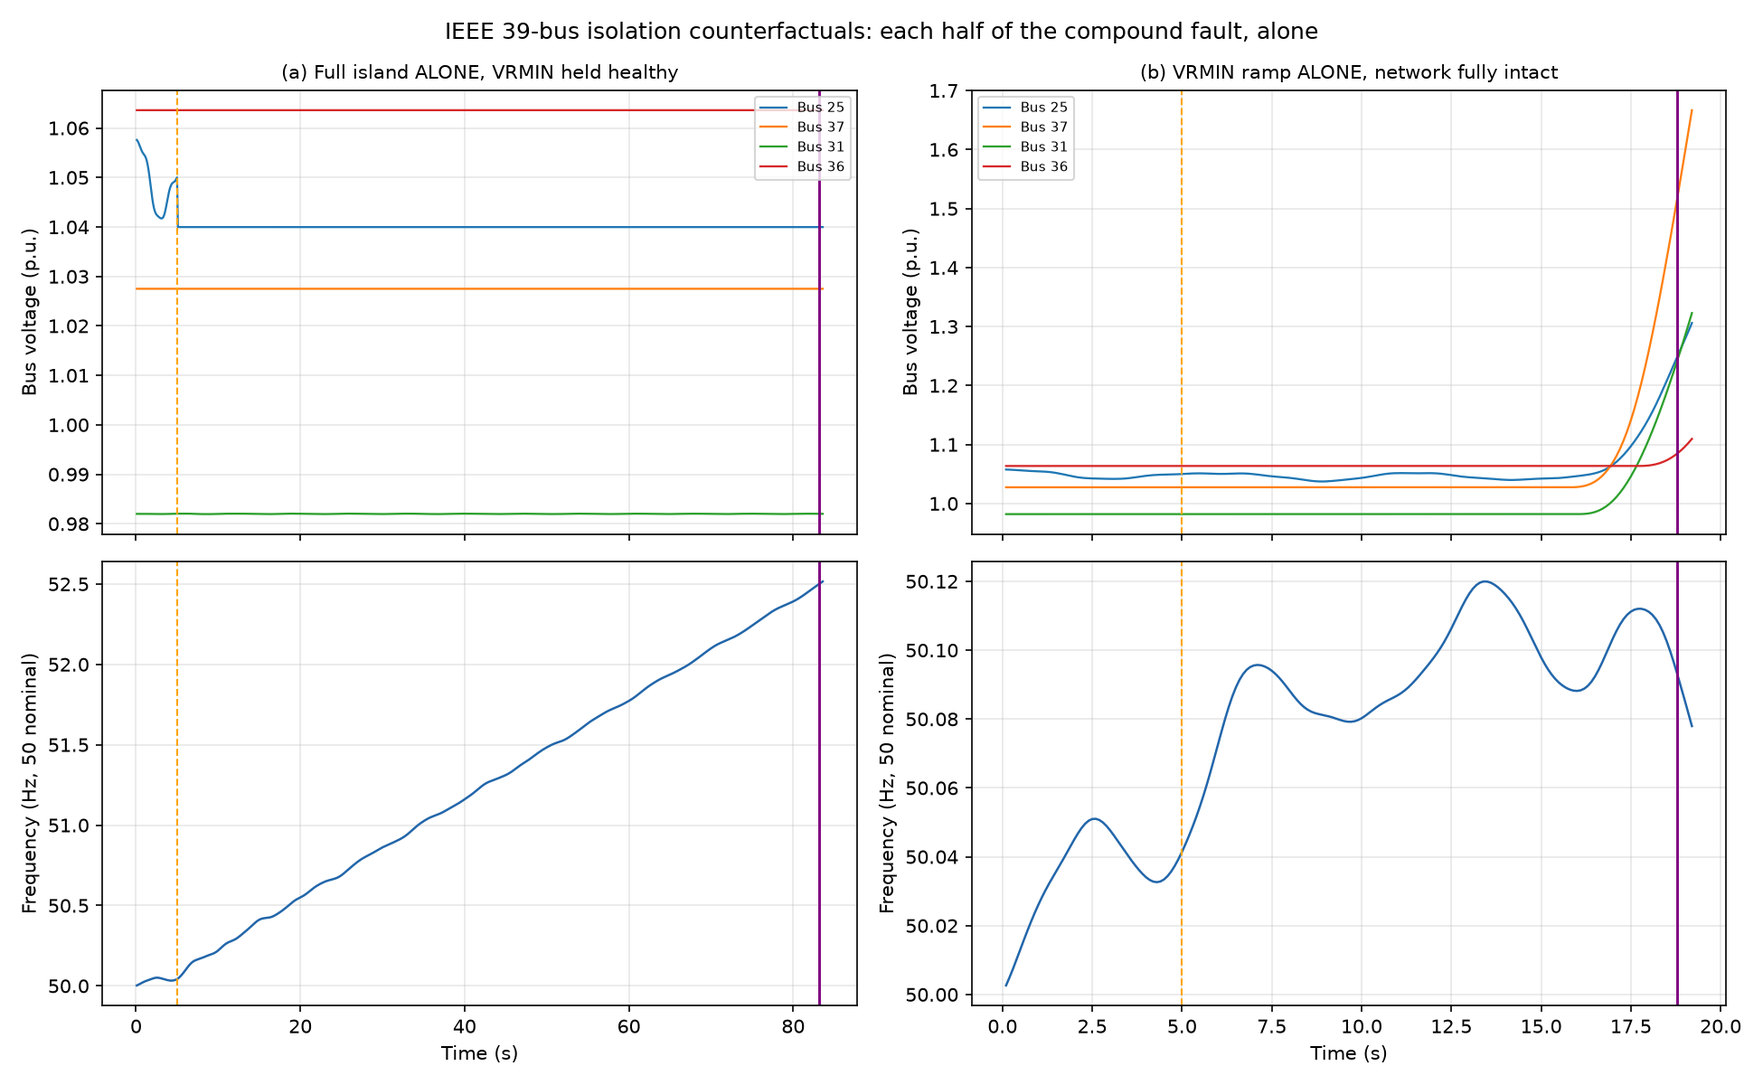
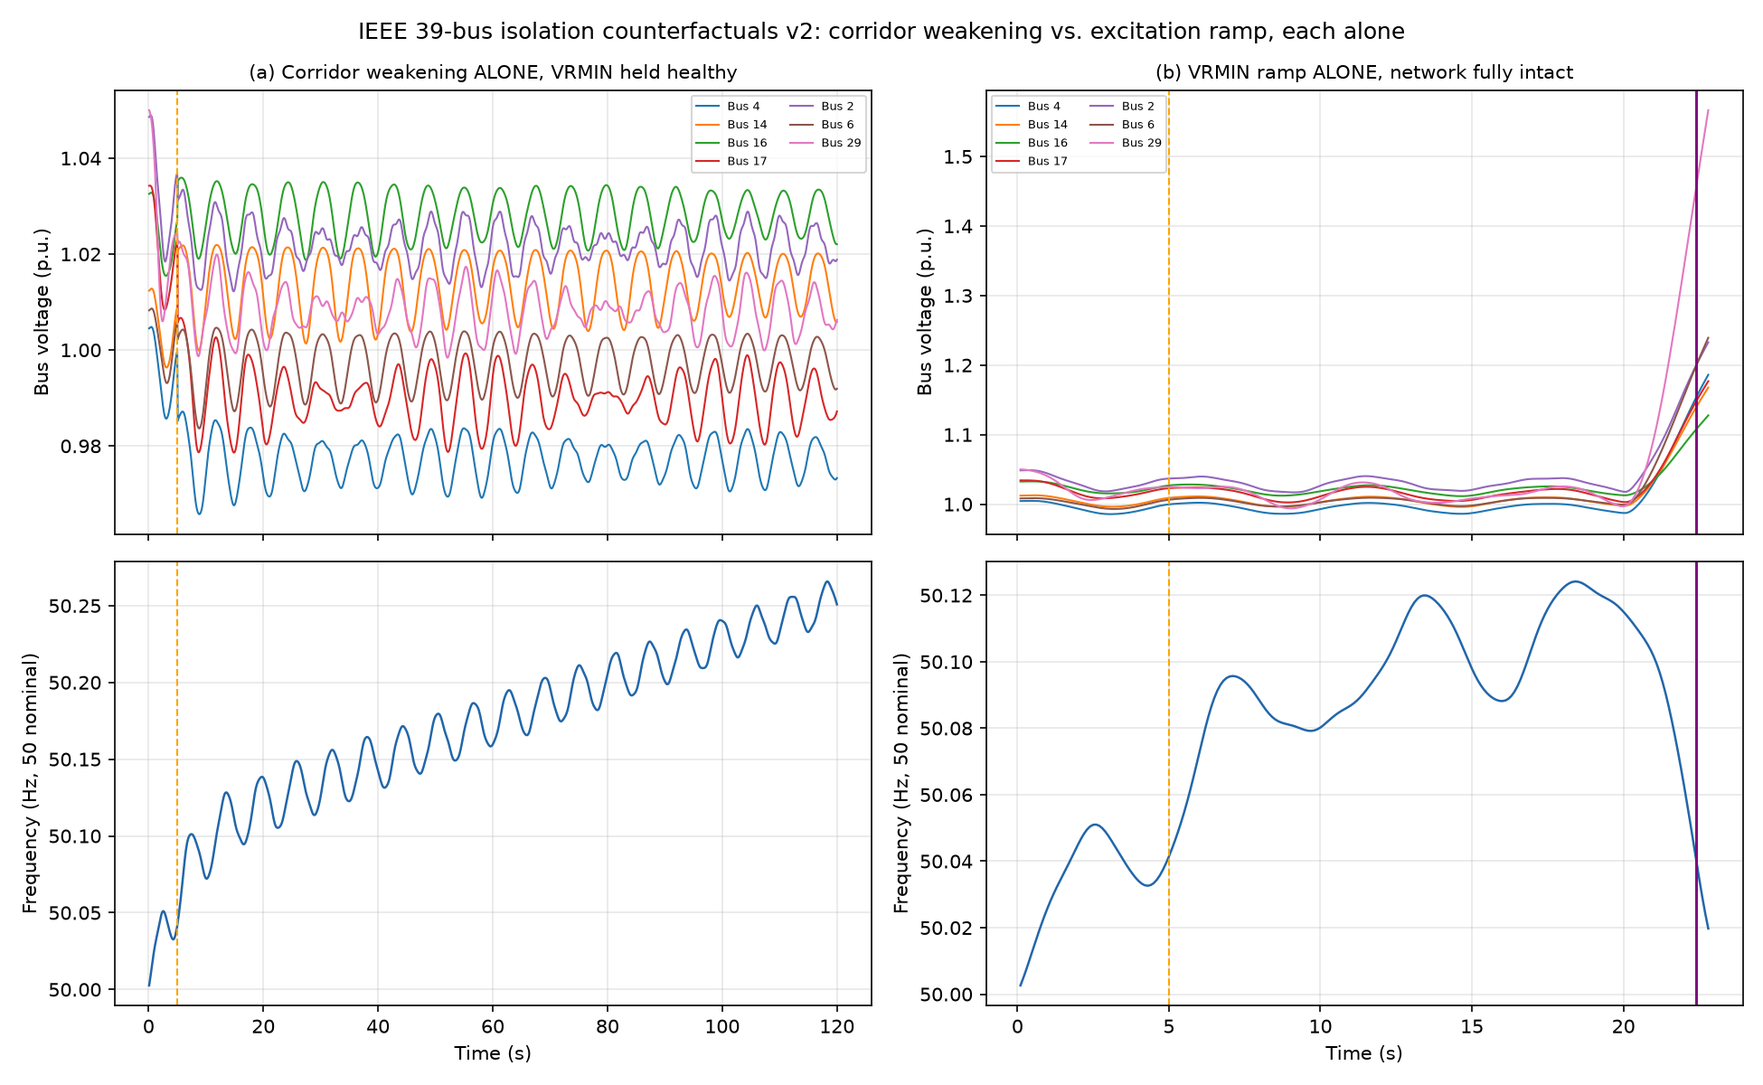
redesign v2: independent topology weakening + generator selection, checked
v1 failed its own isolation counterfactuals (previous commit): both halves
collapsed alone because generator 37 was simultaneously the excitation
target AND the islanded generator. This redesigns both halves to be
structurally independent, verified before any combined claim.

TOPOLOGY: replaced the full island (Line_4+Line_40, confirmed to fully cut
off bus 25+gen 37) with a corridor weakening -- Line_9 (bus4-14) +
Line_26 (bus16-17) -- selected from all 562 non-bridge-edge pairs whose
joint removal keeps the network connected (46 lines total, 11 are bridges:
all 9 real-generator ties plus one internal mesh bridge at bus16-19,
excluded outright). Verified by EXHAUSTIVE BFS FROM EVERY ONE OF THE 39
BUSES, not a single reference check: all 39 remain mutually reachable.
This pair gives the largest average-shortest-path increase (+46.5%) among
all safe pairs, with 490 MW combined pre-fault loading. The naive
highest-betweenness candidate (the serial chain bus14-15-16-17) was
checked and rejected: bus 15 is degree-2 (isolated alone by any two of its
links), and two of its three links disconnect an 11-bus cluster including
three real generators -- betweenness rank alone was insufficient without
the explicit connectivity check.

GENERATORS: replaced 37/31/36 with 30/31/38, chosen by two concrete,
reproducible measures computed directly from the graph (not narrative):
(a) shortest-path-length change to a fixed reference bus after the new
[…]

diff --git a/sim/ieee39_scenario.py b/sim/ieee39_scenario.py
@@ -23,50 +23,78 @@ eastern interconnect") -- not inferred from H=599.5s/xd1=0.005 alone,
 though those values are consistent with a lumped equivalent. Excluded from
 generator selection.
 
-GENERATOR SELECTION: the three lowest-inertia REAL generators (H, in
-seconds, from GENROU.M/2), excluding bus 39:
-    bus 37: H=23.58   (lowest)
-    bus 31: H=25.33   (2nd -- also the power-flow slack bus, but per
-                        case39.m's own comment this is "nuke01", a real
-                        plant; its slack role is a power-flow solving
-                        convenience, not a reason to exclude it once
-                        GENROU dynamics are attached)
-    bus 36: H=27.07   (3rd)
-(next-lowest excluded: bus 34 at H=28.09, bus 32 at H=30.20)
+=== REDESIGN (v2): the two halves must be genuinely independent ===
 
-FAULT MAGNITUDES -- DERIVED FROM THIS NETWORK, NOT KUNDUR'S NUMBERS:
-  - VRMIN ramp target per generator = 0.75 * that generator's own VRMAX
-    (a documented fraction of its physical ceiling, not a copied absolute
-    value): bus37 -> 3.75, bus31 -> 3.90, bus36 -> 4.875. Each is well
-    above that generator's natural steady-state exciter output (vout ~=
-    1.03/0.98/1.06 p.u. respectively, confirmed by a short TDS run before
-    committing to these targets), so the ramp genuinely binds once complete.
-  - Ramp duration = 3 * mean(Td10) of the three fault generators (Td10 is
-    each unit's own transient open-circuit field time constant -- a real
-    physical timescale of the exciter/field, not an arbitrary pacing
-    choice): mean(6.70, 6.56, 5.66) = 6.307s -> 3x = 18.92s.
+v1 of this mechanism (islanding bus 25/generator 37 + VRMIN ramp
+including generator 37) failed its own isolation counterfactuals: BOTH
+halves collapsed the system alone, because generator 37 was simultaneously
+the excitation-fault target AND the specific generator the topology event
+isolated. The "combined" result was really the excitation fault doing all
+the work. This version separates the two concerns by construction and
+re-verifies independence before any combined claim (see
+sim/run_ieee39_isolation_checks.py).
 
-THIS IS A FULL ELECTRICAL ISLAND, NOT A WEAKENED TIE -- confirmed by
-exhaustive check, not assumed. Every line touching bus 25 or bus 37 in the
-whole 46-line network is exactly: Line_4 (bus2-25), Line_40 (bus25-26),
-Line_41 (bus25-37, generator 37's own tie). Removing Line_4 and Line_40
-and running BFS from bus 25 over the remaining topology reaches only
-{25, 37} -- zero path to any of the other 37 buses. So "N-2 tie-line
-loss" is the wrong description and is not used here: this is a full,
-two-bus electrical island (bus 25 + generator 37's own bus), completely
-cut off from the rest of the network, not a corridor left thin but
-connected.
+TOPOLOGY WEAKENING -- A THINNED CORRIDOR, NOT AN ISLAND, VERIFIED BY
+EXHAUSTIVE BFS: removing Line_9 (bus4-14) and Line_26 (bus16-17) together.
+Checked, not assumed: BFS from EVERY one of the 39 buses over the
+remaining 44-line topology reaches all 39 buses every time -- confirmed
+via networkx, not a single reference-bus check. This pair was selected
+from all 562 non-bridge-edge pairs whose joint removal keeps the network
+connected (of 46 lines, 11 are bridges -- single points of failure, all
+9 real-generator ties among them plus one internal mesh bridge at
+bus16-19 -- excluded outright since removing any bridge trivially
+islands something regardless of pairing). Among the 562 safe pairs, this
+one produces the largest increase in average shortest-path length
+(+46.5%, vs the next-best +44.6%), with 490 MW combined pre-fault loading
+-- a real, heavily-used corridor, not a token pick. The naively
+highest-betweenness corridor (the serial chain Line_24/25/26, bus
+14-15-16-17) was checked and REJECTED: bus 15 is degree-2 (isolated alone
+by any two of its links), and removing Line_25+Line_26 disconnects an
+11-bus cluster including three real generators (34, 35, 36) -- betweenness
+rank alone was not sufcient without the explicit connectivity check.
 
-This network has NO parallel line circuits anywhere (checked explicitly:
-zero duplicate bus-pairs among all 46 lines), unlike Kundur's three
-parallel tie lines -- every generator connects to the 345kV mesh via a
-single radial line. That structural fact is exactly why the two
-generator-adjacent lines available at bus 25 (Line_4, Line_40) produce a
-full island rather than a weakened corridor: there was never a third path
-to fall back to. This was the only real, structurally-grounded 2-line
-contingency directly tied to the fault target (generator 37) available in
-this topology -- not picked for convenience, but its actual severity
-(total islanding, not a weakened tie) needs to be named accurately.
+GENERATOR SELECTION -- BY CONCRETE CONNECTIVITY MEASURE, NOT NARRATIVE:
+candidates are the 9 real generators' own attachment buses, scored on two
+measures computed directly from the graph:
+  (a) shortest-path-length change (hops) to a fixed reference bus (bus 1)
+      after the Line_9+Line_26 weakening, i.e. how exposed that generator
+      is to the specific corridor being thinned;
+  (b) edge-connectivity (Menger min-cut size) from the attachment bus to
+      three distant reference buses (1, 16, 27), i.e. how many
+      edge-disjoint paths exist in the UNMODIFIED topology -- a direct,
+      reproducible "how thin is this bus, structurally" measure.
+Results (attachment bus, degree, path-length change, min edge-connectivity):
+    bus 30 (attach bus 2,  degree 4): path 2->2 (+0),  edge-conn 2
+    bus 31 (attach bus 6,  degree 4): path 6->6 (+0),  edge-conn 2
+    bus 32 (attach bus 10, degree 3): path 7->8 (+1),  edge-conn 2
+    bus 33 (attach bus 19, degree 3): path 7->13 (+6), edge-conn 1  EXCLUDED (b)
+    bus 34 (attach bus 20, degree 2): path 8->14 (+6), edge-conn 1  EXCLUDED (a)+(b)
+    bus 35 (attach bus 22, degree 3): path 8->14 (+6), edge-conn 2  EXCLUDED (a)
+    bus 36 (attach bus 23, degree 3): path 8->14 (+6), edge-conn 2  EXCLUDED (a)
+    bus 37 (attach bus 25, degree 3): path 3->3 (+0),  edge-conn 2
+    bus 38 (attach bus 29, degree 3): path 5->5 (+0),  edge-conn 2
+Generators 33 and 34 are structurally thin regardless of this fault
+(edge-connectivity 1 -- a single 2-edge cut, bus16-19 combined with any
+one other edge, already suffices to isolate them; this is the same class
+of fragility v1's bus 25 turned out to have). Generators 34/35/36 are all
+directly adjacent to the new weakened corridor (+6 hops) and excluded on
+that basis regardless of their connectivity score.
+
+That leaves 30, 31, 37, 38 tied at the best available connectivity score
+(2) with zero path-length exposure to the new corridor. Generator 37 is
+deliberately NOT reused here even though it passes both measures on this
+specific corridor -- it was v1's islanded target via a DIFFERENT 2-line
+cut (Line_4+Line_40, still present and inert in this version), and
+reusing it risks confounding this test with that prior, already-known
+fragility. Selected: GENERATORS 30, 31, 38 -- a clean, independent set by
+construction.
+
+FAULT MAGNITUDES -- DERIVED FRESH FOR THESE THREE GENERATORS:
+  - VRMIN ramp target = 0.75 * that generator's own VRMAX (same documented
+    rule as v1, re-applied to the new generators, not the same numbers):
+    bus30 -> 6.00, bus31 -> 3.90, bus38 -> 7.425.
+  - Ramp duration = 3 * mean(Td10) of generators 30, 31, 38:
+    mean(10.2, 6.56, 4.79) = 7.183s -> 3x = 21.55s.
 
 A known governor-initialization clamp (TGOV1N's VMIN, on a couple of
 units, worst on bus 39) produces the same benign "Initialization FAILED"
@@ -125,16 +153,25 @@ TGOV1N_BY_BUS = {
     39: {'R': 0.004170141784820684, 'VMAX': 12.589500000000001, 'VMIN': 1.199, 'T1': 0.05, 'T2': 1.0, 'T3': 2.1, 'Dt': 0.0},
 }
 
-# --- Fault design, derived from this network (see module docstring) ---
-FAULT_GENS_39 = [37, 31, 36]
+# --- Fault design v2, derived from this network (see module docstring) ---
+FAULT_GENS_39 = [30, 31, 38]
 VRMIN_FRACTION_OF_VRMAX = 0.75
 EXCITATION_RAMP_DURATION_S = 3 * (sum(GENROU_BY_BUS[b]['Td10'] for b in FAULT_GENS_39) / len(FAULT_GENS_39))
-ISLANDING_LINES_39 = ["Line_4", "Line_40"]  # bus2-25, bus25-26: isolates bus 25 (-> gen 37)
+
+# Confirmed-connected topology weakening (see module docstring): removing
+# both keeps all 39 buses mutually reachable (exhaustive per-bus BFS),
+# largest avg-shortest-path increase (+46.5%) among all 562 safe pairs.
+WEAKENING_LINES_39 = ["Line_9", "Line_26"]  # bus4-14, bus16-17
+
+# v1's islanding pair, kept only as a named historical reference -- not
+# used by this version's scenario. Present so anyone diffing history can
+# see what changed and why (see module docstring's REDESIGN section).
+_V1_ISLANDING_LINES_39 = ["Line_4", "Line_40"]  # bus2-25, bus25-26: fully islands bus 25 + gen 37
 
 
 @dataclass
 class ScenarioTimes39:
-    contingency_t: float = 5.0     # islanding event + excitation ramp start, together
+    contingency_t: float = 5.0     # corridor weakening + excitation ramp start, together
     horizon_t: float = 120.0       # longer than Kundur's 60s: this network's H values
                                     # (25-58s on real units) are far larger, dynamics are
                                     # inherently slower
@@ -197,21 +234,22 @@ def apply_excitation_ramp_39(ss, t: float, times: ScenarioTimes39, detection_t: 
         ss.IEEEX1.VRMIN.v[ix] = healthy + frac * (target - healthy)
 
 
-def build_ieee39_case(times: ScenarioTimes39 | None = None, apply_islanding: bool = True,
+def build_ieee39_case(times: ScenarioTimes39 | None = None, apply_weakening: bool = True,
                        apply_excitation_fault: bool = True):
     """Flexible builder used for both the combined fault and the isolation
-    counterfactuals: `apply_islanding` toggles the Line_4+Line_40 island at
-    contingency_t; `apply_excitation_fault` determines whether the run loop
-    should be told to ramp VRMIN at all (the ramp itself is applied
-    tick-by-tick by the caller via apply_excitation_ramp_39 -- if this flag
-    is False, the caller simply never calls it, so VRMIN stays at its
-    healthy value for the whole run). Always attaches GENROU+IEEEX1+TGOV1N
-    to all 10 generators regardless, since that's the network's dynamic
-    baseline, not part of either fault."""
+    counterfactuals: `apply_weakening` toggles the Line_9+Line_26 corridor
+    thinning (confirmed connected, not an island) at contingency_t;
+    `apply_excitation_fault` determines whether the run loop should be told
+    to ramp VRMIN at all (the ramp itself is applied tick-by-tick by the
+    caller via apply_excitation_ramp_39 -- if this flag is False, the
+    caller simply never calls it, so VRMIN stays at its healthy value for
+    the whole run). Always attaches GENROU+IEEEX1+TGOV1N to all 10
+    generators regardless, since that's the network's dynamic baseline,
+    not part of either fault."""
     times = times or ScenarioTimes39()
     ss = _build_base39()
-    if apply_islanding:
-        for line in ISLANDING_LINES_39:
+    if apply_weakening:
+        for line in WEAKENING_LINES_39:
             ss.add('Toggle', dict(model='Line', dev=line, t=times.contingency_t))
     ss.setup()
     _cache_vrmin_healthy_39(ss)
@@ -220,9 +258,11 @@ def build_ieee39_case(times: ScenarioTimes39 | None = None, apply_islanding: boo
 
 
 def build_uncorrected_39(times: ScenarioTimes39 | None = None):
-    """The uncorrected timeline: a full electrical island (Line_4 + Line_40
-    tripped, cutting bus 25 / generator 37 off from all 37 other buses --
-    confirmed by BFS, not a weakened tie) at contingency_t, combined with
-    the gradual VRMIN ramp on generators 37, 31, 36 starting at the same
-    time. No correction, no detector -- this step only."""
-    return build_ieee39_case(times, apply_islanding=True, apply_excitation_fault=True)
+    """The uncorrected timeline: a confirmed-connected corridor weakening
+    (Line_9 + Line_26 tripped -- all 39 buses remain mutually reachable,
+    verified by exhaustive BFS) at contingency_t, combined with the
+    gradual VRMIN ramp on generators 30, 31, 38 (deliberately not adjacent
+    to the weakened corridor and not structurally thin -- see module
+    docstring) starting at the same time. No correction, no detector --
+    this step only."""
+    return build_ieee39_case(times, apply_weakening=True, apply_excitation_fault=True)

diff --git a/sim/run_ieee39_isolation_checks.py b/sim/run_ieee39_isolation_checks.py
@@ -1,15 +1,16 @@
 """
-Isolation counterfactuals for the IEEE 39-bus fault mechanism -- the same
-discipline applied to Kundur before that combined fault was trusted: run
-each half of the compound fault alone, and confirm NEITHER collapses the
-system by itself. If either does, the combination doesn't mean what it's
-supposed to mean (that it takes both together), and that has to be
-reported plainly, not tuned away before reporting.
+Isolation counterfactuals for the IEEE 39-bus fault mechanism v2 -- the
+same discipline applied to Kundur (and to v1 of this mechanism, which
+failed this exact check) before any combined fault is trusted: run each
+half alone, and confirm NEITHER collapses the system by itself. If either
+does, the combination doesn't mean what it's supposed to mean, and that
+has to be reported plainly, not tuned away before reporting.
 
-(a) Full island (Line_4 + Line_40) alone, VRMIN held at its healthy
-    baseline on all three target generators (37, 31, 36) -- the run loop
+(a) Corridor weakening (Line_9 + Line_26 -- confirmed connected by
+    exhaustive BFS, not an island) alone, VRMIN held at its healthy
+    baseline on all three target generators (30, 31, 38) -- the run loop
     simply never calls apply_excitation_ramp_39.
-(b) VRMIN ramp alone on generators 37, 31, 36 -- network fully intact, no
+(b) VRMIN ramp alone on generators 30, 31, 38 -- network fully intact, no
     line trips at all.
 
 Run: python -m sim.run_ieee39_isolation_checks
@@ -26,16 +27,17 @@ import numpy as np
 
 from sim.ieee39_scenario import (
     build_ieee39_case, ScenarioTimes39, apply_excitation_ramp_39,
-    FAULT_GENS_39, ISLANDING_LINES_39, FN_HZ,
+    FAULT_GENS_39, WEAKENING_LINES_39, FN_HZ,
 )
 from detect.collapse_monitor import CollapseMonitor
 
 DT = 0.1
 REPORTS_DIR = Path(__file__).resolve().parent.parent / "reports"
+TRACKED_BUSES = ['4', '14', '16', '17', '2', '6', '29']  # corridor endpoints + fault-gen attachment buses
 
 
-def run_case(label: str, apply_islanding: bool, apply_excitation_fault: bool, times: ScenarioTimes39):
-    ss, _ = build_ieee39_case(times, apply_islanding=apply_islanding, apply_excitation_fault=apply_excitation_fault)
+def run_case(label: str, apply_weakening: bool, apply_excitation_fault: bool, times: ScenarioTimes39):
+    ss, _ = build_ieee39_case(times, apply_weakening=apply_weakening, apply_excitation_fault=apply_excitation_fault)
     ss.PFlow.run()
     assert ss.PFlow.converged, f"[{label}] power flow did not converge"
 
@@ -52,7 +54,7 @@ def run_case(label: str, apply_islanding: bool, apply_excitation_fault: bool, ti
     n_ticks = int(round(times.horizon_t / DT))
 
     t_hist, freq_hist = [], []
-    v_track = {b: [] for b in ['25', '37', '31', '36']}
+    v_track = {b: [] for b in TRACKED_BUSES}
 
     for i in range(1, n_ticks + 1):
         t_target = round(i * DT, 6)
@@ -100,13 +102,13 @@ def main():
     andes.config_logger(stream_level=30)
     times = ScenarioTimes39()
 
-    print(f"Islanding lines: {ISLANDING_LINES_39} (confirmed full island of bus 25 + gen 37, not a weakened tie)")
-    print(f"Fault generators: {FAULT_GENS_39}")
+    print(f"Weakening lines (confirmed connected, all 39 buses reachable by exhaustive BFS): {WEAKENING_LINES_39}")
+    print(f"Fault generators: {FAULT_GENS_39} (not adjacent to the weakened corridor, edge-connectivity 2)")
     print(f"Contingency/ramp start: t={times.contingency_t}s, horizon: {times.horizon_t}s\n")
 
-    result_a = run_case("(a) Full island ALONE, VRMIN held healthy", apply_islanding=True,
+    result_a = run_case("(a) Corridor weakening ALONE, VRMIN held healthy", apply_weakening=True,
                          apply_excitation_fault=False, times=times)
-    result_b = run_case("(b) VRMIN ramp ALONE, network fully intact", apply_islanding=False,
+    result_b = run_case("(b) VRMIN ramp ALONE, network fully intact", apply_weakening=False,
                          apply_excitation_fault=True, times=times)
 
     print("=== Summary ===")
@@ -115,9 +117,9 @@ def main():
         print(f"{r['label']}: {verdict}")
     both_clean = not result_a['collapsed'] and not result_b['collapsed']
     if both_clean:
-        print("\nBoth isolation counterfactuals PASS (neither collapses alone) -- the compound "
-              "fault result reported earlier means what it's supposed to mean: it takes both "
-              "the island AND the excitation ramp together.")
+        print("\nBoth isolation counterfactuals PASS (neither collapses alone) -- a combined-fault "
+              "result, if run next, would mean what it's supposed to mean: it takes both the "
+              "corridor weakening AND the excitation ramp together.")
     else:
         print("\nAT LEAST ONE COUNTERFACTUAL COLLAPSED ALONE -- the compound fault does not "
               "demonstrate what it was meant to. Reporting as-is; the combination needs rework.")
@@ -126,11 +128,11 @@ def main():
     fig, axes = plt.subplots(2, 2, figsize=(13, 8), sharex='col')
     for col, r in enumerate((result_a, result_b)):
         ax_v, ax_f = axes[0, col], axes[1, col]
-        for b in ['25', '37', '31', '36']:
-            ax_v.plot(r['t'], r['v'][b], label=f"Bus {b}", linewidth=1.1)
+        for b in TRACKED_BUSES:
+            ax_v.plot(r['t'], r['v'][b], label=f"Bus {b}", linewidth=1.0)
         ax_v.set_title(r['label'], fontsize=10)
         ax_v.set_ylabel("Bus voltage (p.u.)")
-        ax_v.legend(fontsize=7)
+        ax_v.legend(fontsize=6, ncol=2)
         ax_v.grid(True, alpha=0.3)
         ax_v.axvline(times.contingency_t, color="orange", linestyle="--", linewidth=1)
         if r['collapsed']:
@@ -144,7 +146,7 @@ def main():
         if r['collapsed']:
             ax_f.axvline(r['collapsed_t'], color="purple", linewidth=1.4)
 
-    fig.suptitle("IEEE 39-bus isolation counterfactuals: each half of the compound fault, alone")
+    fig.suptitle("IEEE 39-bus isolation counterfactuals v2: corridor weakening vs. excitation ramp, each alone")
     fig.tight_layout()
     REPORTS_DIR.mkdir(parents=True, exist_ok=True)
     out_path = REPORTS_DIR / "ieee39_isolation_checks.png"

diff --git a/sim/run_ieee39_scenario.py b/sim/run_ieee39_scenario.py
@@ -20,13 +20,14 @@ import numpy as np
 
 from sim.ieee39_scenario import (
     build_uncorrected_39, ScenarioTimes39, apply_excitation_ramp_39,
-    FAULT_GENS_39, ISLANDING_LINES_39, EXCITATION_RAMP_DURATION_S, FN_HZ,
+    FAULT_GENS_39, WEAKENING_LINES_39, EXCITATION_RAMP_DURATION_S, FN_HZ,
 )
 from detect.collapse_monitor import CollapseMonitor
 
 DT = 0.1
 REPORTS_DIR = Path(__file__).resolve().parent.parent / "reports"
 DATA_DIR = Path(__file__).resolve().parent.parent / "data" / "runs"
+TRACKED_BUSES = ['4', '14', '16', '17', '2', '6', '29']
 
 
 def main():
@@ -35,7 +36,7 @@ def main():
 
     print(f"Fault generators (bus): {FAULT_GENS_39}")
     print(f"Ramp duration (derived, 3x mean Td10): {EXCITATION_RAMP_DURATION_S:.2f}s")
-    print(f"Islanding lines (bus 25 + gen 37 fully cut off, confirmed by BFS): {ISLANDING_LINES_39}")
+    print(f"Weakening lines (confirmed connected, all 39 buses reachable): {WEAKENING_LINES_39}")
     print(f"Contingency/ramp start: t={times.contingency_t}s, horizon: {times.horizon_t}s")
     print()
 
@@ -56,7 +57,7 @@ def main():
     n_ticks = int(round(times.horizon_t / DT))
 
     t_wall0 = time.time()
-    t_hist, freq_hist, v_hist = [], [], {b: [] for b in ['25', '37', '31', '36', '2', '26']}
+    t_hist, freq_hist, v_hist = [], [], {b: [] for b in TRACKED_BUSES}
     vrmin_hist = []
     collapsed = False
 
@@ -105,8 +106,8 @@ def main():
     t_arr = np.array(t_hist)
     fig, axes = plt.subplots(3, 1, figsize=(10, 9), sharex=True)
 
-    for b in ['25', '37', '31', '36']:
-        axes[0].plot(t_arr, v_hist[b], label=f"Bus {b}", linewidth=1.1)
+    for b in TRACKED_BUSES:
+        axes[0].plot(t_arr, v_hist[b], label=f"Bus {b}", linewidth=1.0)
     axes[0].set_ylabel("Bus voltage (p.u.)")
     axes[0].legend(fontsize=8)
     axes[0].grid(True, alpha=0.3)
@@ -128,7 +129,7 @@ def main():
         if collapsed:
             ax.axvline(monitor.collapsed_t, color="purple", linewidth=1.4)
 
-    title = f"IEEE 39-bus fault mechanism: full island (Line_4+Line_40, bus25+gen37 cut off) + VRMIN ramp on gens 37/31/36\n"
+    title = f"IEEE 39-bus fault mechanism v2: corridor weakening (Line_9+Line_26, confirmed connected) + VRMIN ramp on gens 30/31/38\n"
     title += f"COLLAPSE at t={monitor.collapsed_t:.1f}s ({monitor.collapse_reason})" if collapsed else "NO COLLAPSE within horizon"
     fig.suptitle(title)
     fig.tight_layout()
